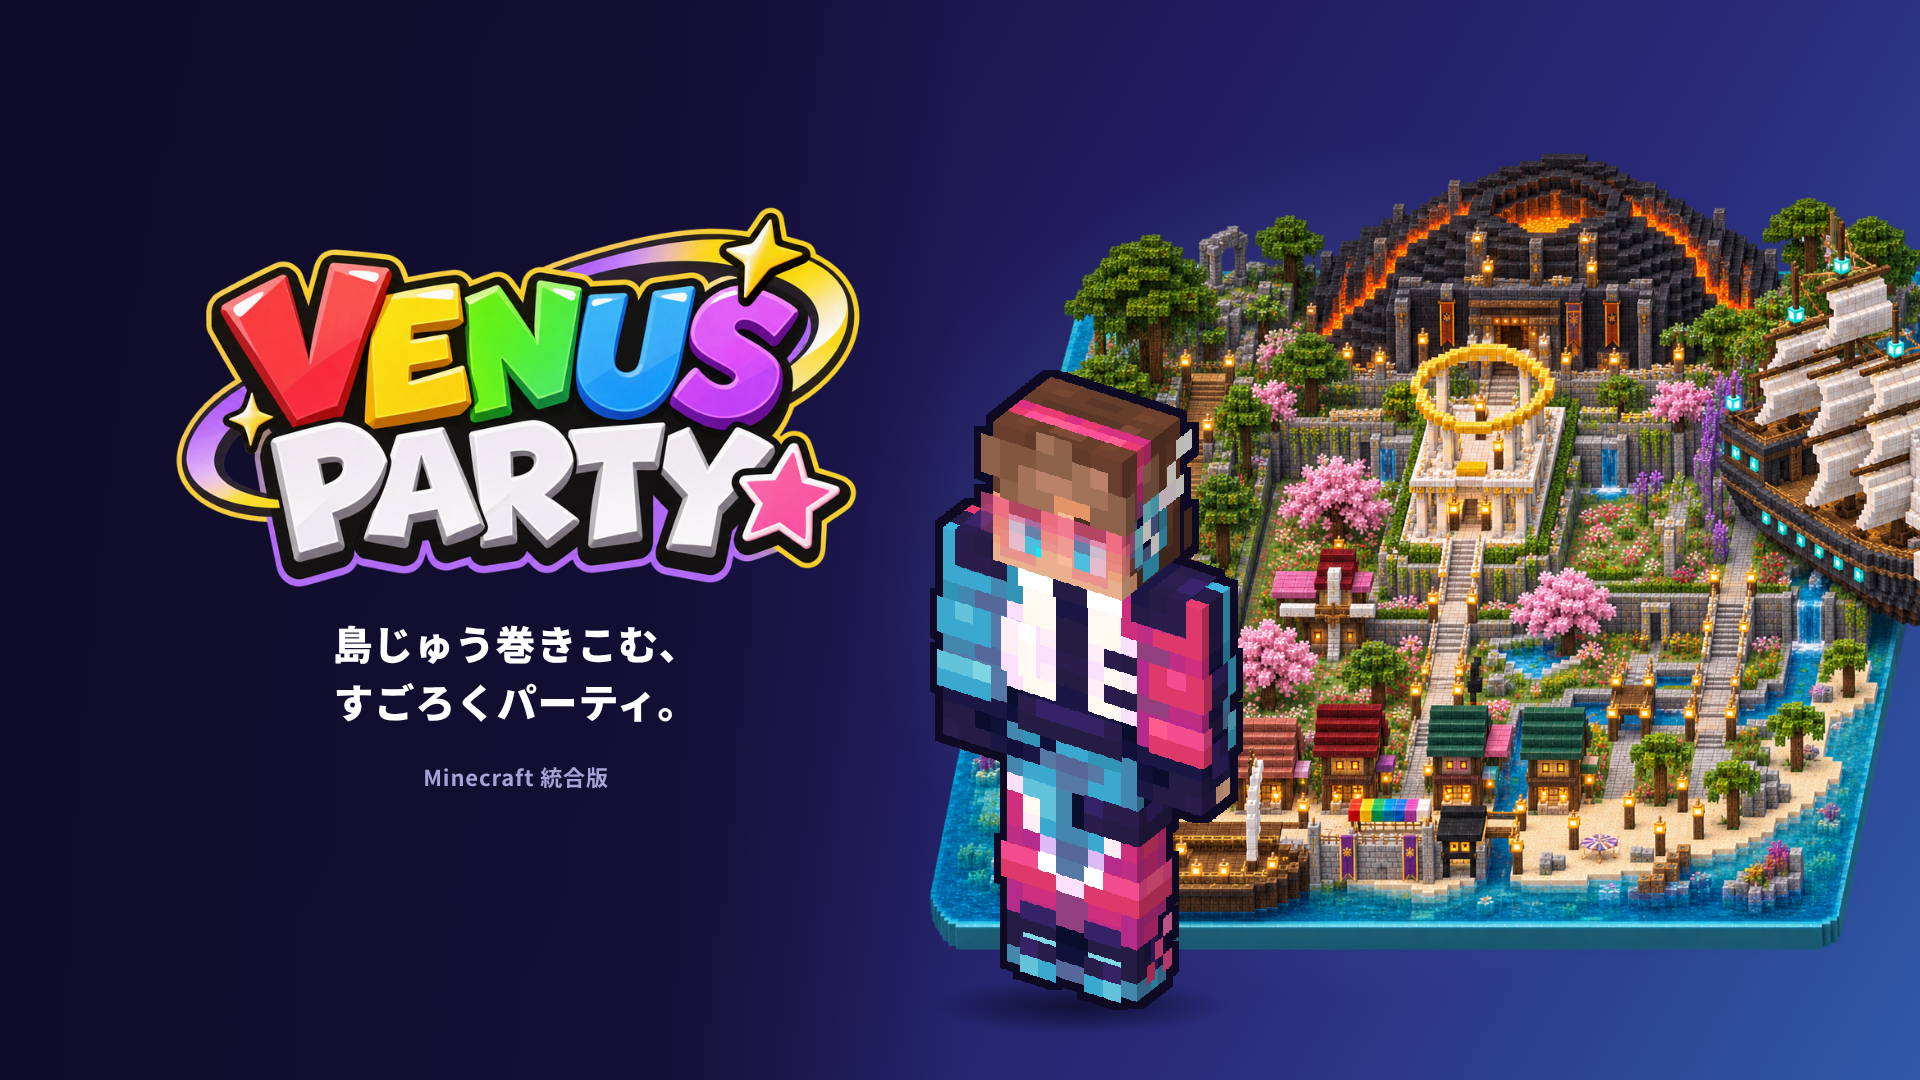
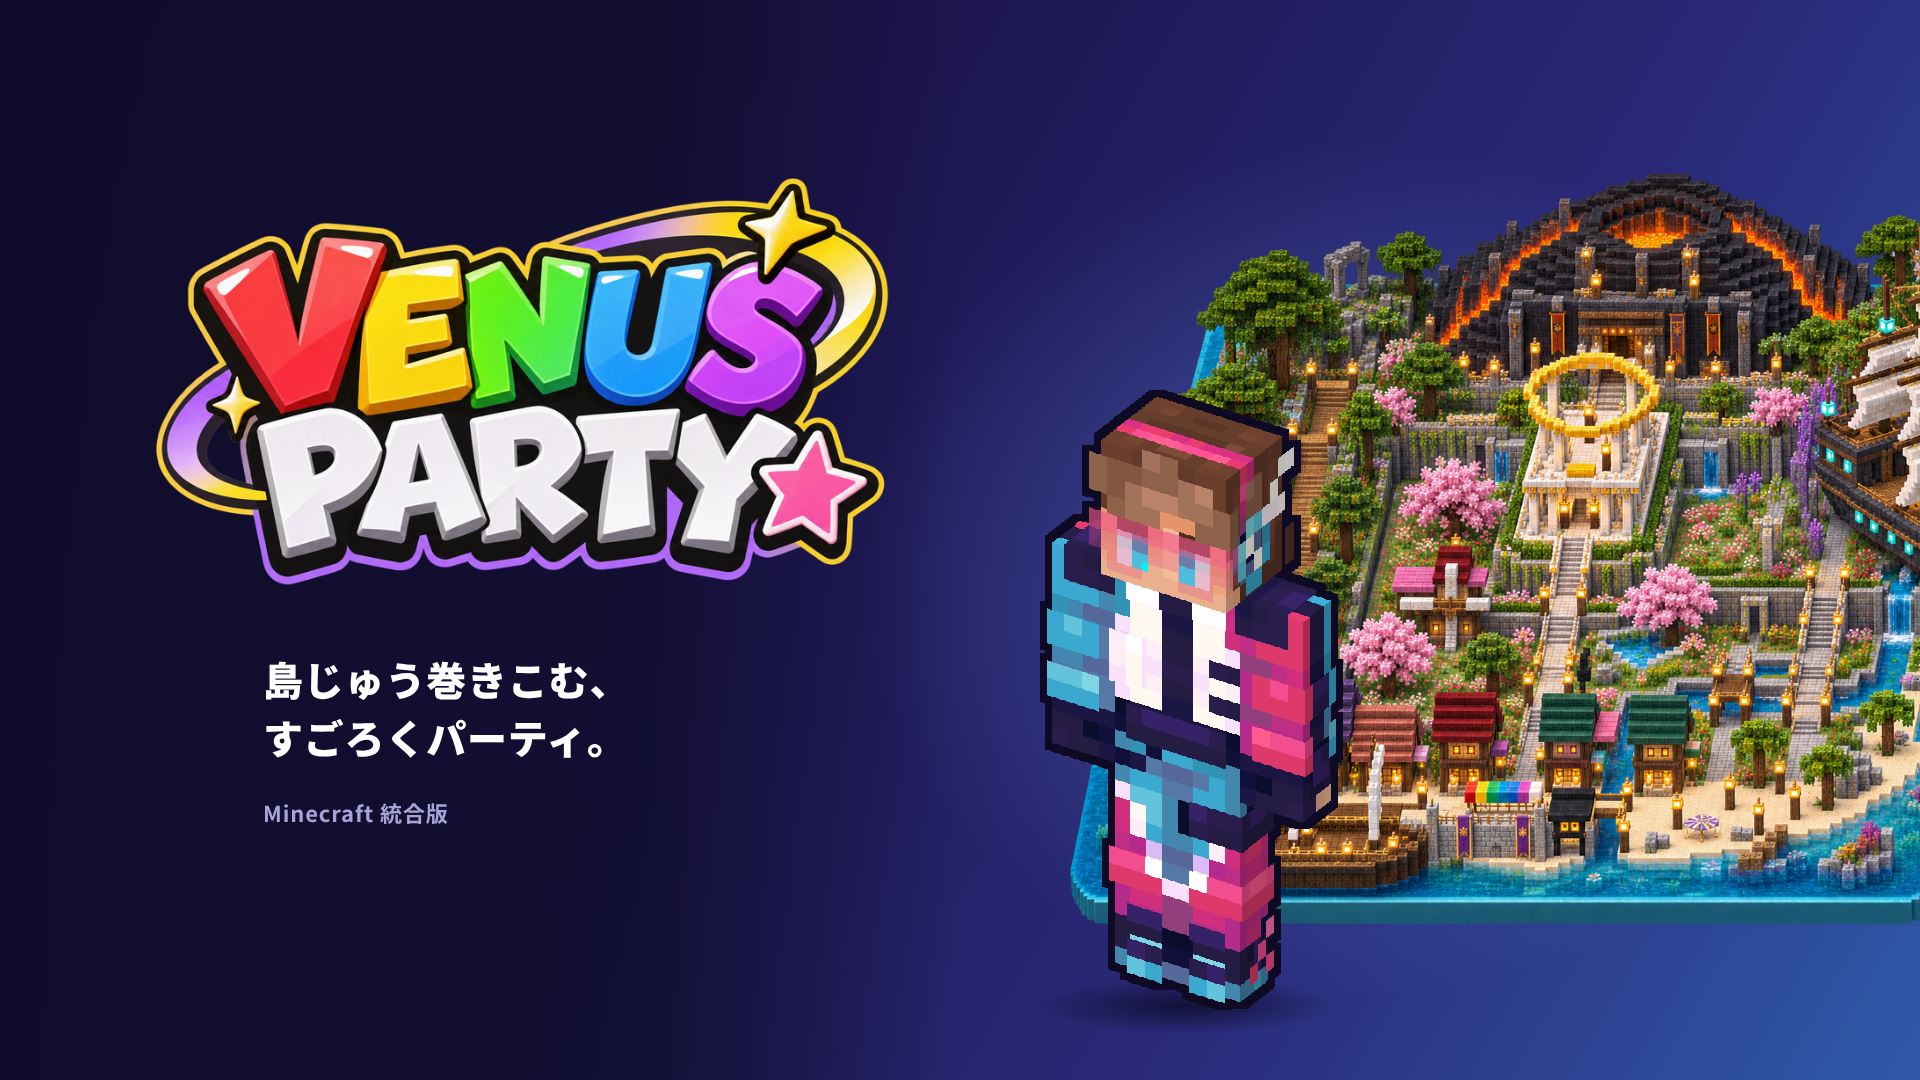
紹介画像の表紙: ロゴを大きく、文字を P の下で左揃え、ロゴとの間をあける
Claude-Session: https://claude.ai/code/session_01B2FgibtyYDajcCp47YzWMQ

diff --git a/mpl/promo/01_kv.html b/mpl/promo/01_kv.html
@@ -18,13 +18,14 @@ body{background:radial-gradient(1400px 900px at 70% 30%,#231a55 0%,var(--bg1) 70
 
 body{background:linear-gradient(120deg,#100d2c 0%,#1d1650 38%,#2a2a7a 70%,#2f5aa8 100%)}
 .glow{position:absolute;right:60px;top:140px;width:1000px;height:860px;background:radial-gradient(closest-side,rgba(120,170,255,.35),rgba(120,170,255,0))}
-.isl{position:absolute;right:-70px;top:150px;width:1060px}
+.isl{position:absolute;right:-150px;top:170px;width:1000px}
 .fade{position:absolute;inset:0;background:linear-gradient(90deg,#100d2c 0%,rgba(16,13,44,.8) 34%,rgba(16,13,44,0) 50%)}
-.dj{position:absolute;left:930px;bottom:70px;height:640px;image-rendering:pixelated}
-.sh{position:absolute;left:930px;bottom:46px;width:300px;height:56px;border-radius:50%;background:radial-gradient(closest-side,rgba(5,4,20,.65),rgba(5,4,20,0))}
-.left{position:absolute;left:96px;top:200px;width:840px;text-align:center}
-.logo{display:block;width:840px;margin:0 auto}
-.copy{margin-top:26px;font-weight:900;font-size:40px;line-height:1.45;letter-spacing:.02em}
+.dj{position:absolute;left:1040px;bottom:70px;height:620px;image-rendering:pixelated}
+.sh{position:absolute;left:1035px;bottom:46px;width:300px;height:56px;border-radius:50%;background:radial-gradient(closest-side,rgba(5,4,20,.65),rgba(5,4,20,0))}
+.left{position:absolute;left:70px;top:170px;width:900px}
+.logo{display:block;width:900px}
+.left p{padding-left:193px}   /* PARTY の P の左はしにそろえる(ロゴの幅の 21.5%) */
+.copy{margin-top:64px;font-weight:900;font-size:40px;line-height:1.45;letter-spacing:.02em}
 .foot{margin-top:30px;font-weight:700;font-size:22px;color:#a7a3d6;letter-spacing:.04em}
 .grain{display:none}
 </style></head><body>

diff --git a/tools/mpl_promo.py b/tools/mpl_promo.py
@@ -41,13 +41,14 @@ pages.append(page('01_kv', f'''
 ''', '''
 body{background:linear-gradient(120deg,#100d2c 0%,#1d1650 38%,#2a2a7a 70%,#2f5aa8 100%)}
 .glow{position:absolute;right:60px;top:140px;width:1000px;height:860px;background:radial-gradient(closest-side,rgba(120,170,255,.35),rgba(120,170,255,0))}
-.isl{position:absolute;right:-70px;top:150px;width:1060px}
+.isl{position:absolute;right:-150px;top:170px;width:1000px}
 .fade{position:absolute;inset:0;background:linear-gradient(90deg,#100d2c 0%,rgba(16,13,44,.8) 34%,rgba(16,13,44,0) 50%)}
-.dj{position:absolute;left:930px;bottom:70px;height:640px;image-rendering:pixelated}
-.sh{position:absolute;left:930px;bottom:46px;width:300px;height:56px;border-radius:50%;background:radial-gradient(closest-side,rgba(5,4,20,.65),rgba(5,4,20,0))}
-.left{position:absolute;left:96px;top:200px;width:840px;text-align:center}
-.logo{display:block;width:840px;margin:0 auto}
-.copy{margin-top:26px;font-weight:900;font-size:40px;line-height:1.45;letter-spacing:.02em}
+.dj{position:absolute;left:1040px;bottom:70px;height:620px;image-rendering:pixelated}
+.sh{position:absolute;left:1035px;bottom:46px;width:300px;height:56px;border-radius:50%;background:radial-gradient(closest-side,rgba(5,4,20,.65),rgba(5,4,20,0))}
+.left{position:absolute;left:70px;top:170px;width:900px}
+.logo{display:block;width:900px}
+.left p{padding-left:193px}   /* PARTY の P の左はしにそろえる(ロゴの幅の 21.5%) */
+.copy{margin-top:64px;font-weight:900;font-size:40px;line-height:1.45;letter-spacing:.02em}
 .foot{margin-top:30px;font-weight:700;font-size:22px;color:#a7a3d6;letter-spacing:.04em}
 .grain{display:none}
 '''))
